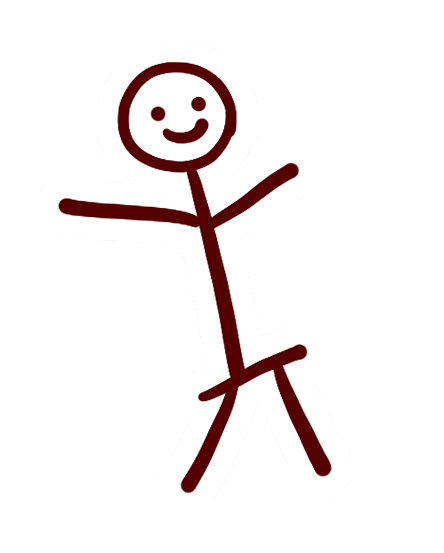
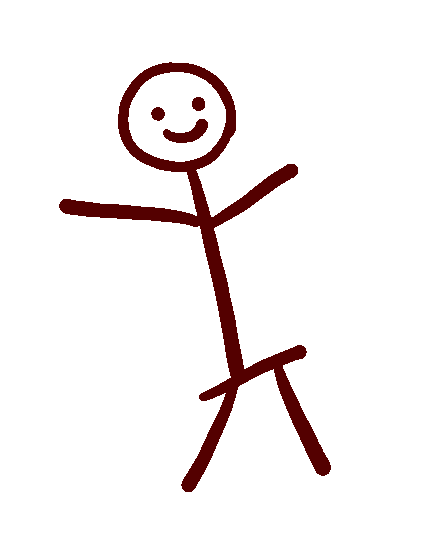
stick

diff --git a/CSS/homepage.css b/CSS/homepage.css
@@ -144,7 +144,7 @@ html {
 }
 
 .trailer h1{
-    color:white;
+    color: var(--secondary-color);
     font-size: 6rem;
     font-weight:600;
     font-family: var(--main-font);
@@ -201,7 +201,7 @@ html {
     font-size: 4.5rem;
     font-weight:600;
     padding: 0 0 0 50px;    
-    color:white;
+    color: var(--secondary-color);
     font-family: var(--main-font);
     text-align: left;
     margin-bottom:10px;
@@ -604,4 +604,17 @@ html {
 .download-link:hover {
     background-color: var(--background-color);
     transform: scale(1.05);
+}
+
+.drawn-char,
+.drawn-char2 {
+    filter:
+        drop-shadow(6px 0 0 var(--secondary-color))
+        drop-shadow(-6px 0 0 var(--secondary-color))
+        drop-shadow(0 6px 0 var(--secondary-color))
+        drop-shadow(0 -6px 0 var(--secondary-color))
+        drop-shadow(6px 6px 0 var(--secondary-color))
+        drop-shadow(-6px -6px 0 var(--secondary-color))
+        drop-shadow(6px -6px 0 var(--secondary-color))
+        drop-shadow(-6px 6px 0 var(--secondary-color));
 }
